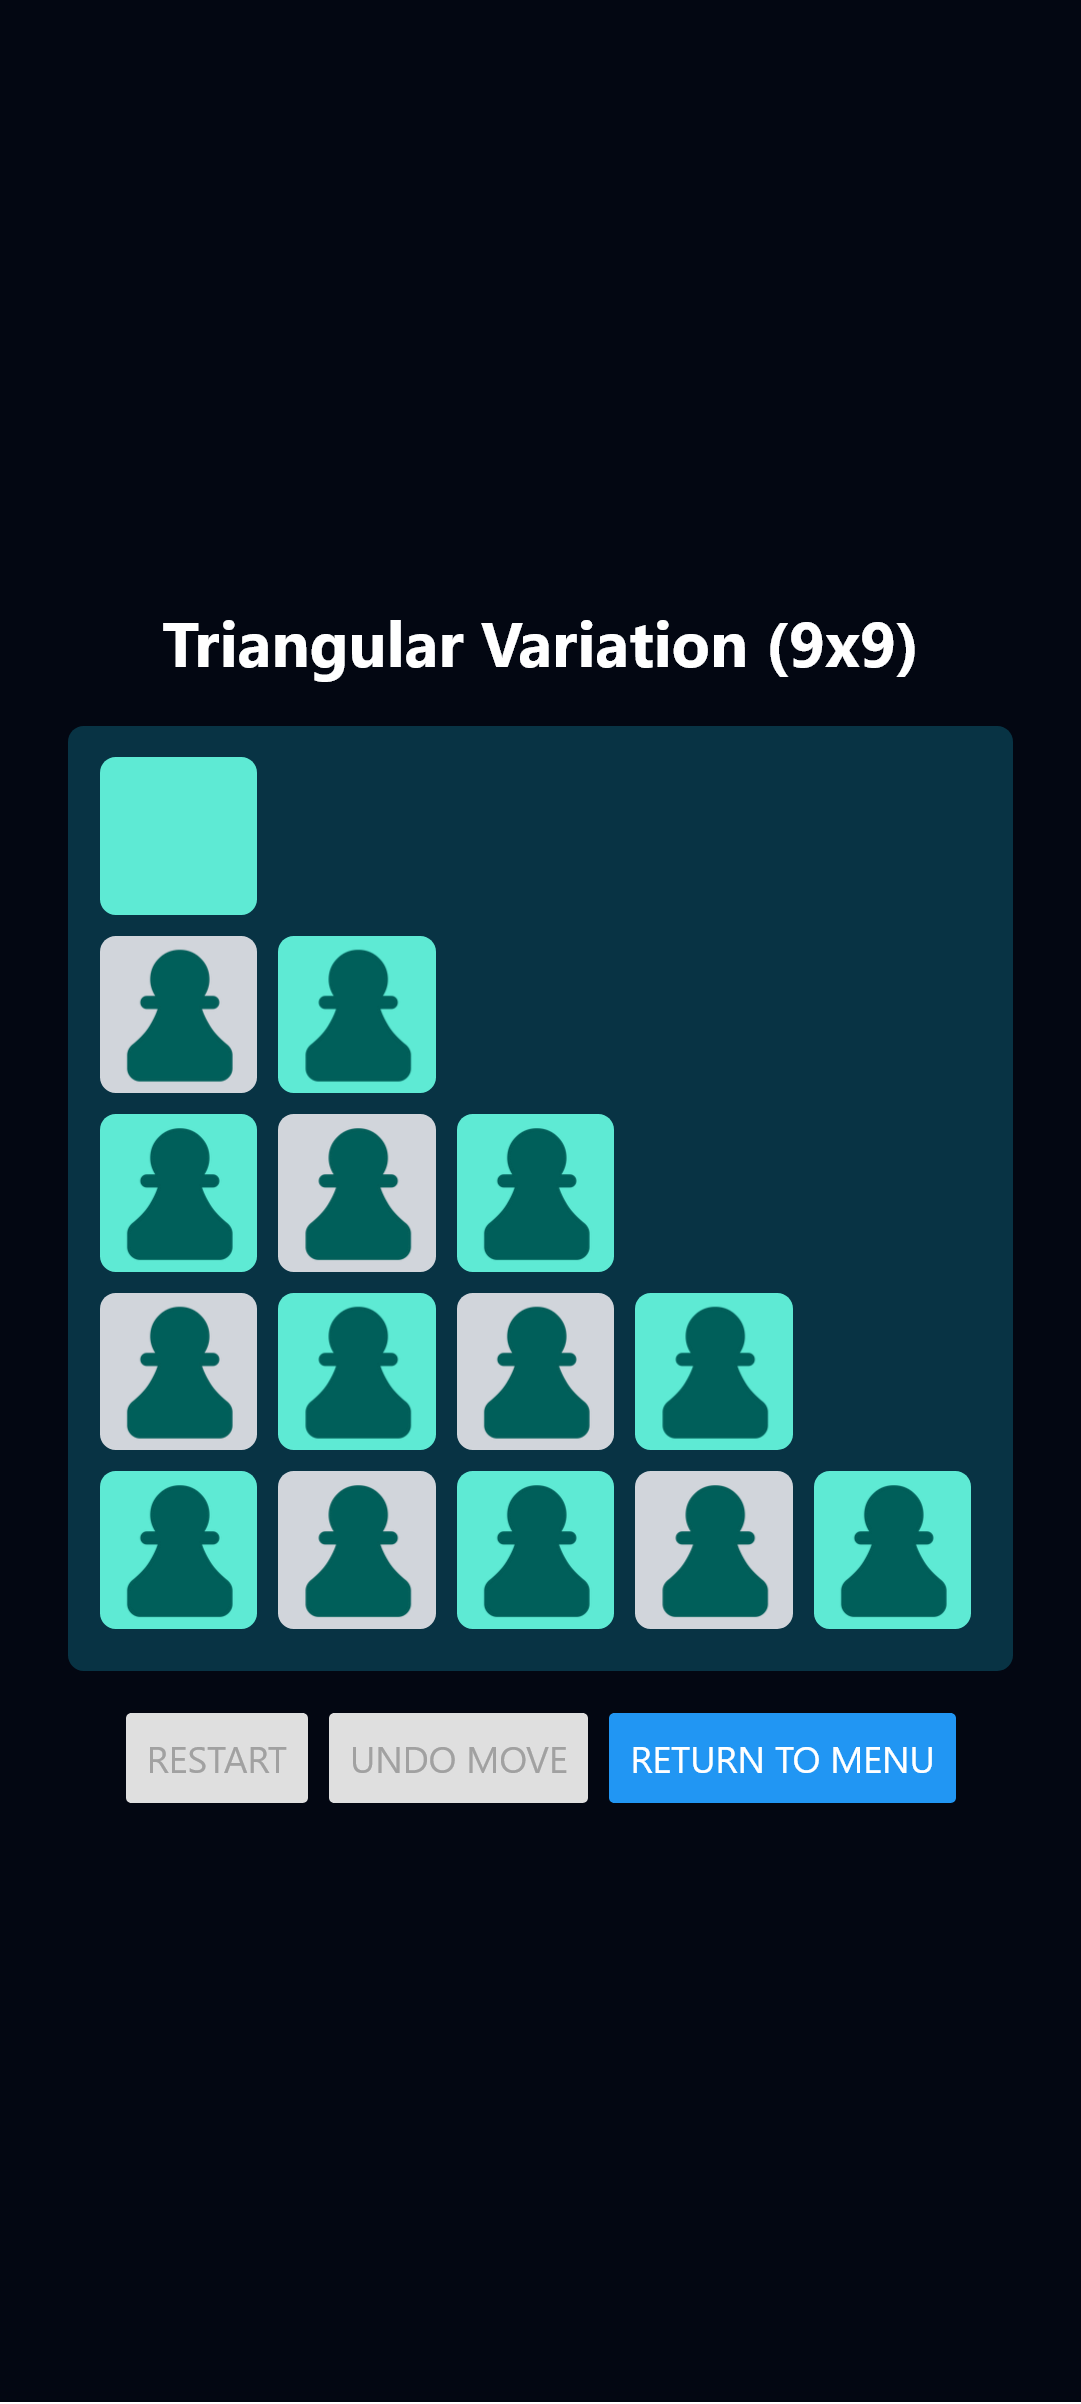
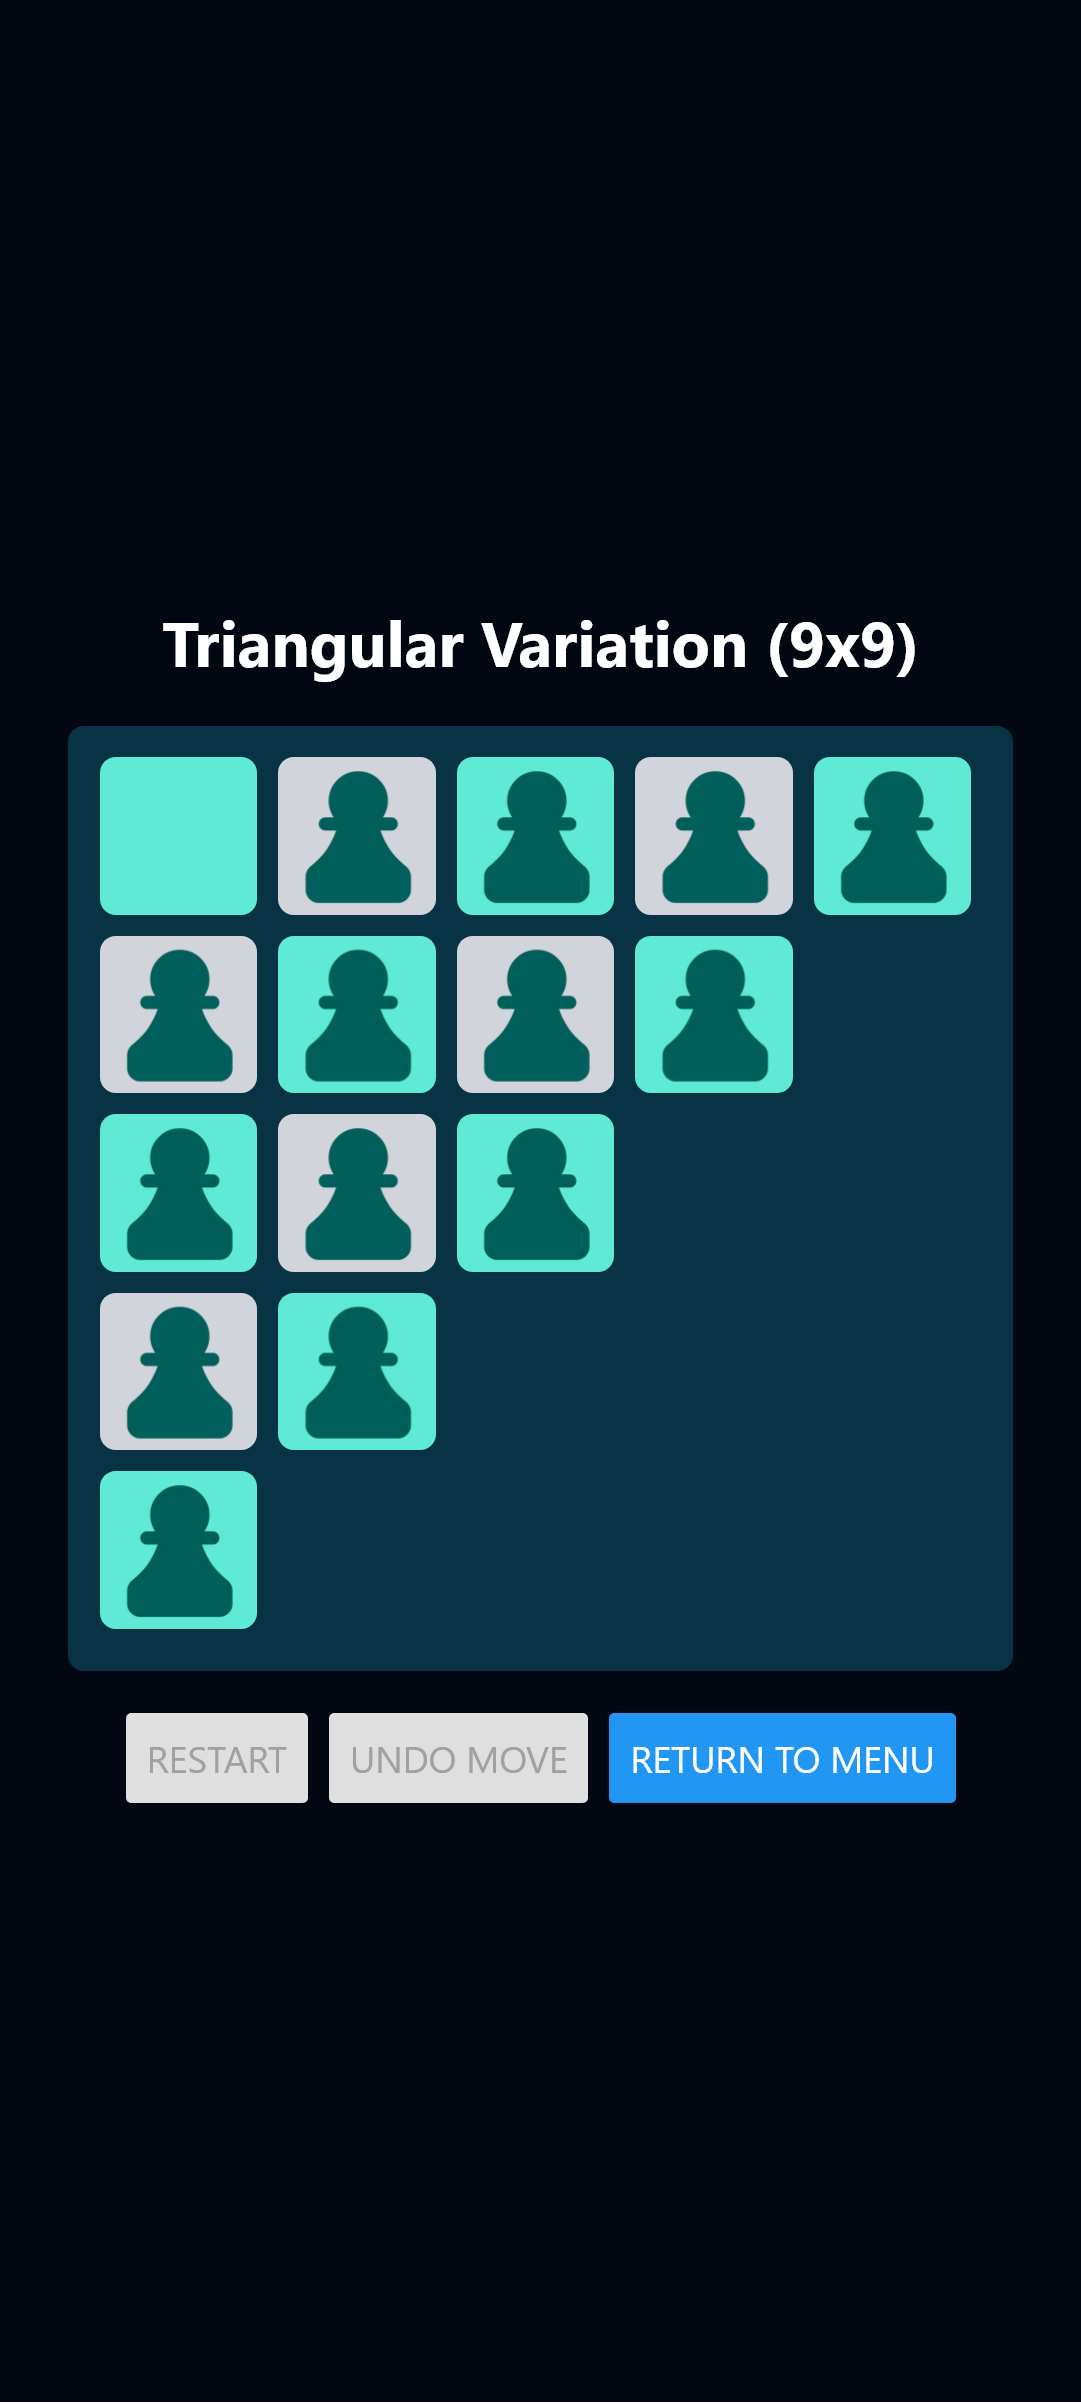
fixed triangle variation

Changed region(s): [[0.2442, 0.5304, 0.9158, 0.6864], [0.2442, 0.312, 0.9158, 0.468]]

diff --git a/utils/BoardConfig.ts b/utils/BoardConfig.ts
@@ -96,4 +96,4 @@ export const diamondConfig: BoardConfig = [
     '    x    ',
 ];
 
-export const triangularConfig: BoardConfig = ['0', 'xx', 'xxx', 'xxxx', 'xxxxx'];
+export const triangularConfig: BoardConfig = ['0xxxx', 'xxxx ', 'xxx  ', 'xx   ', 'x    '];
